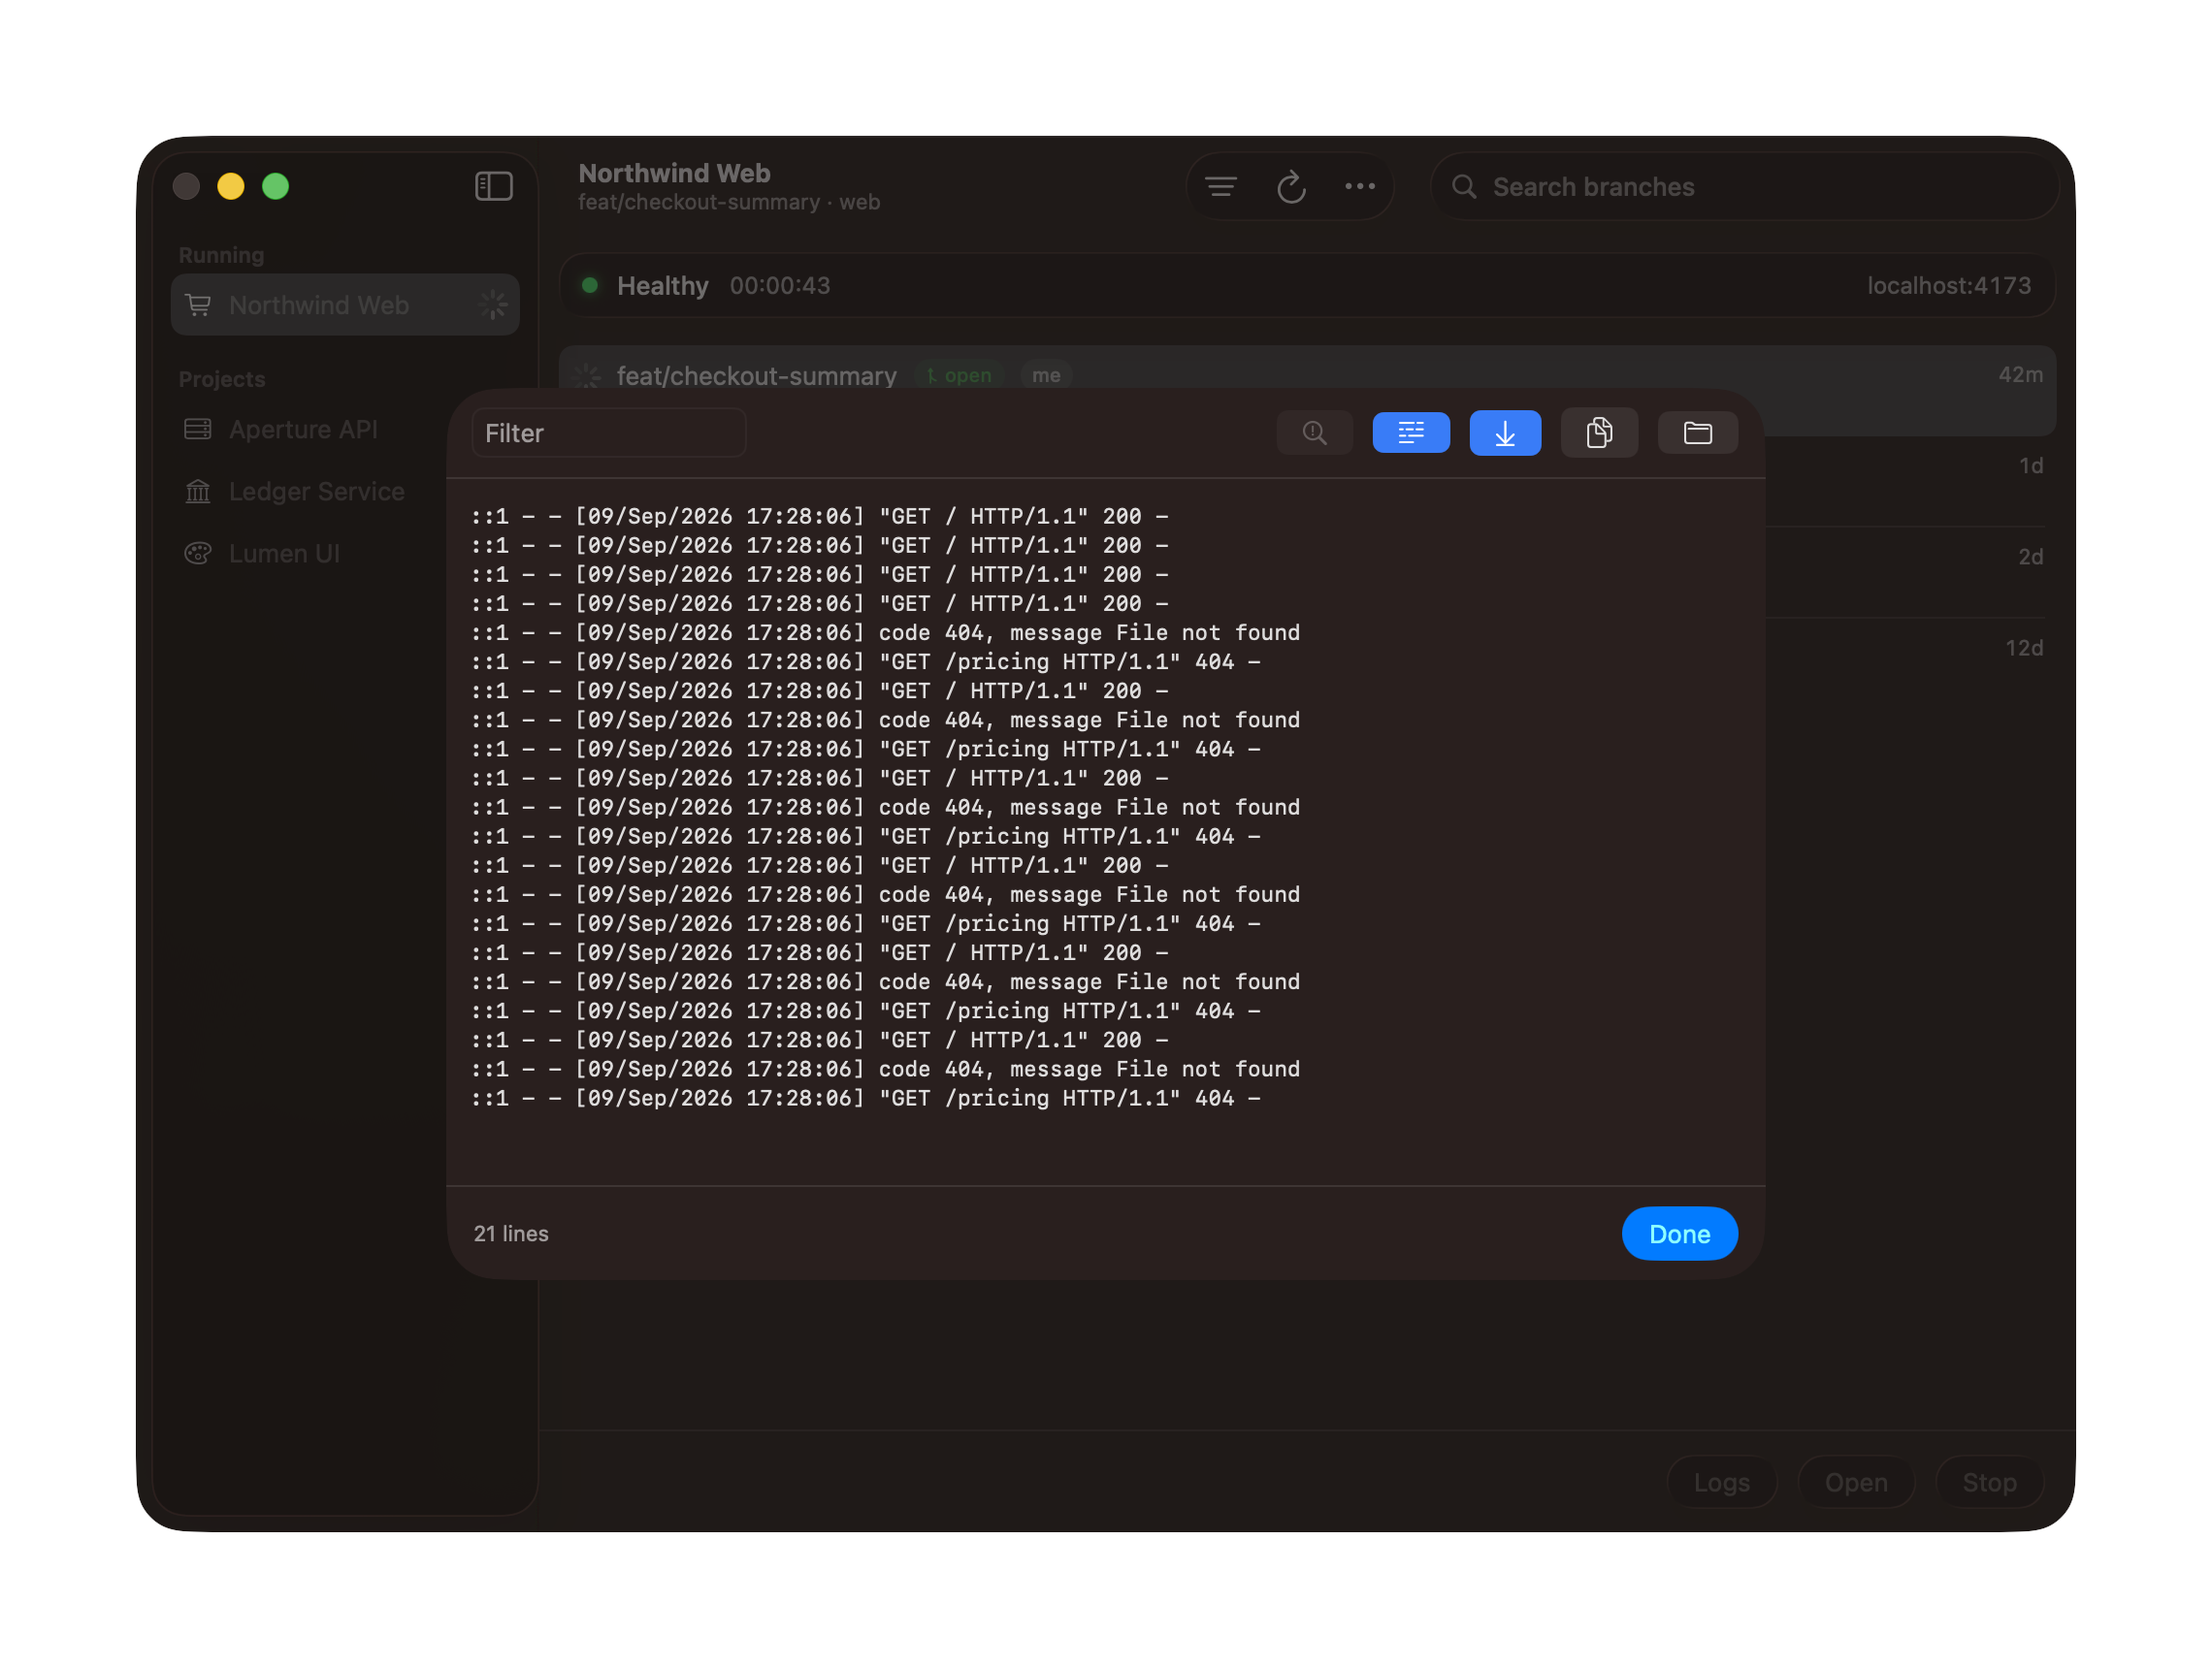
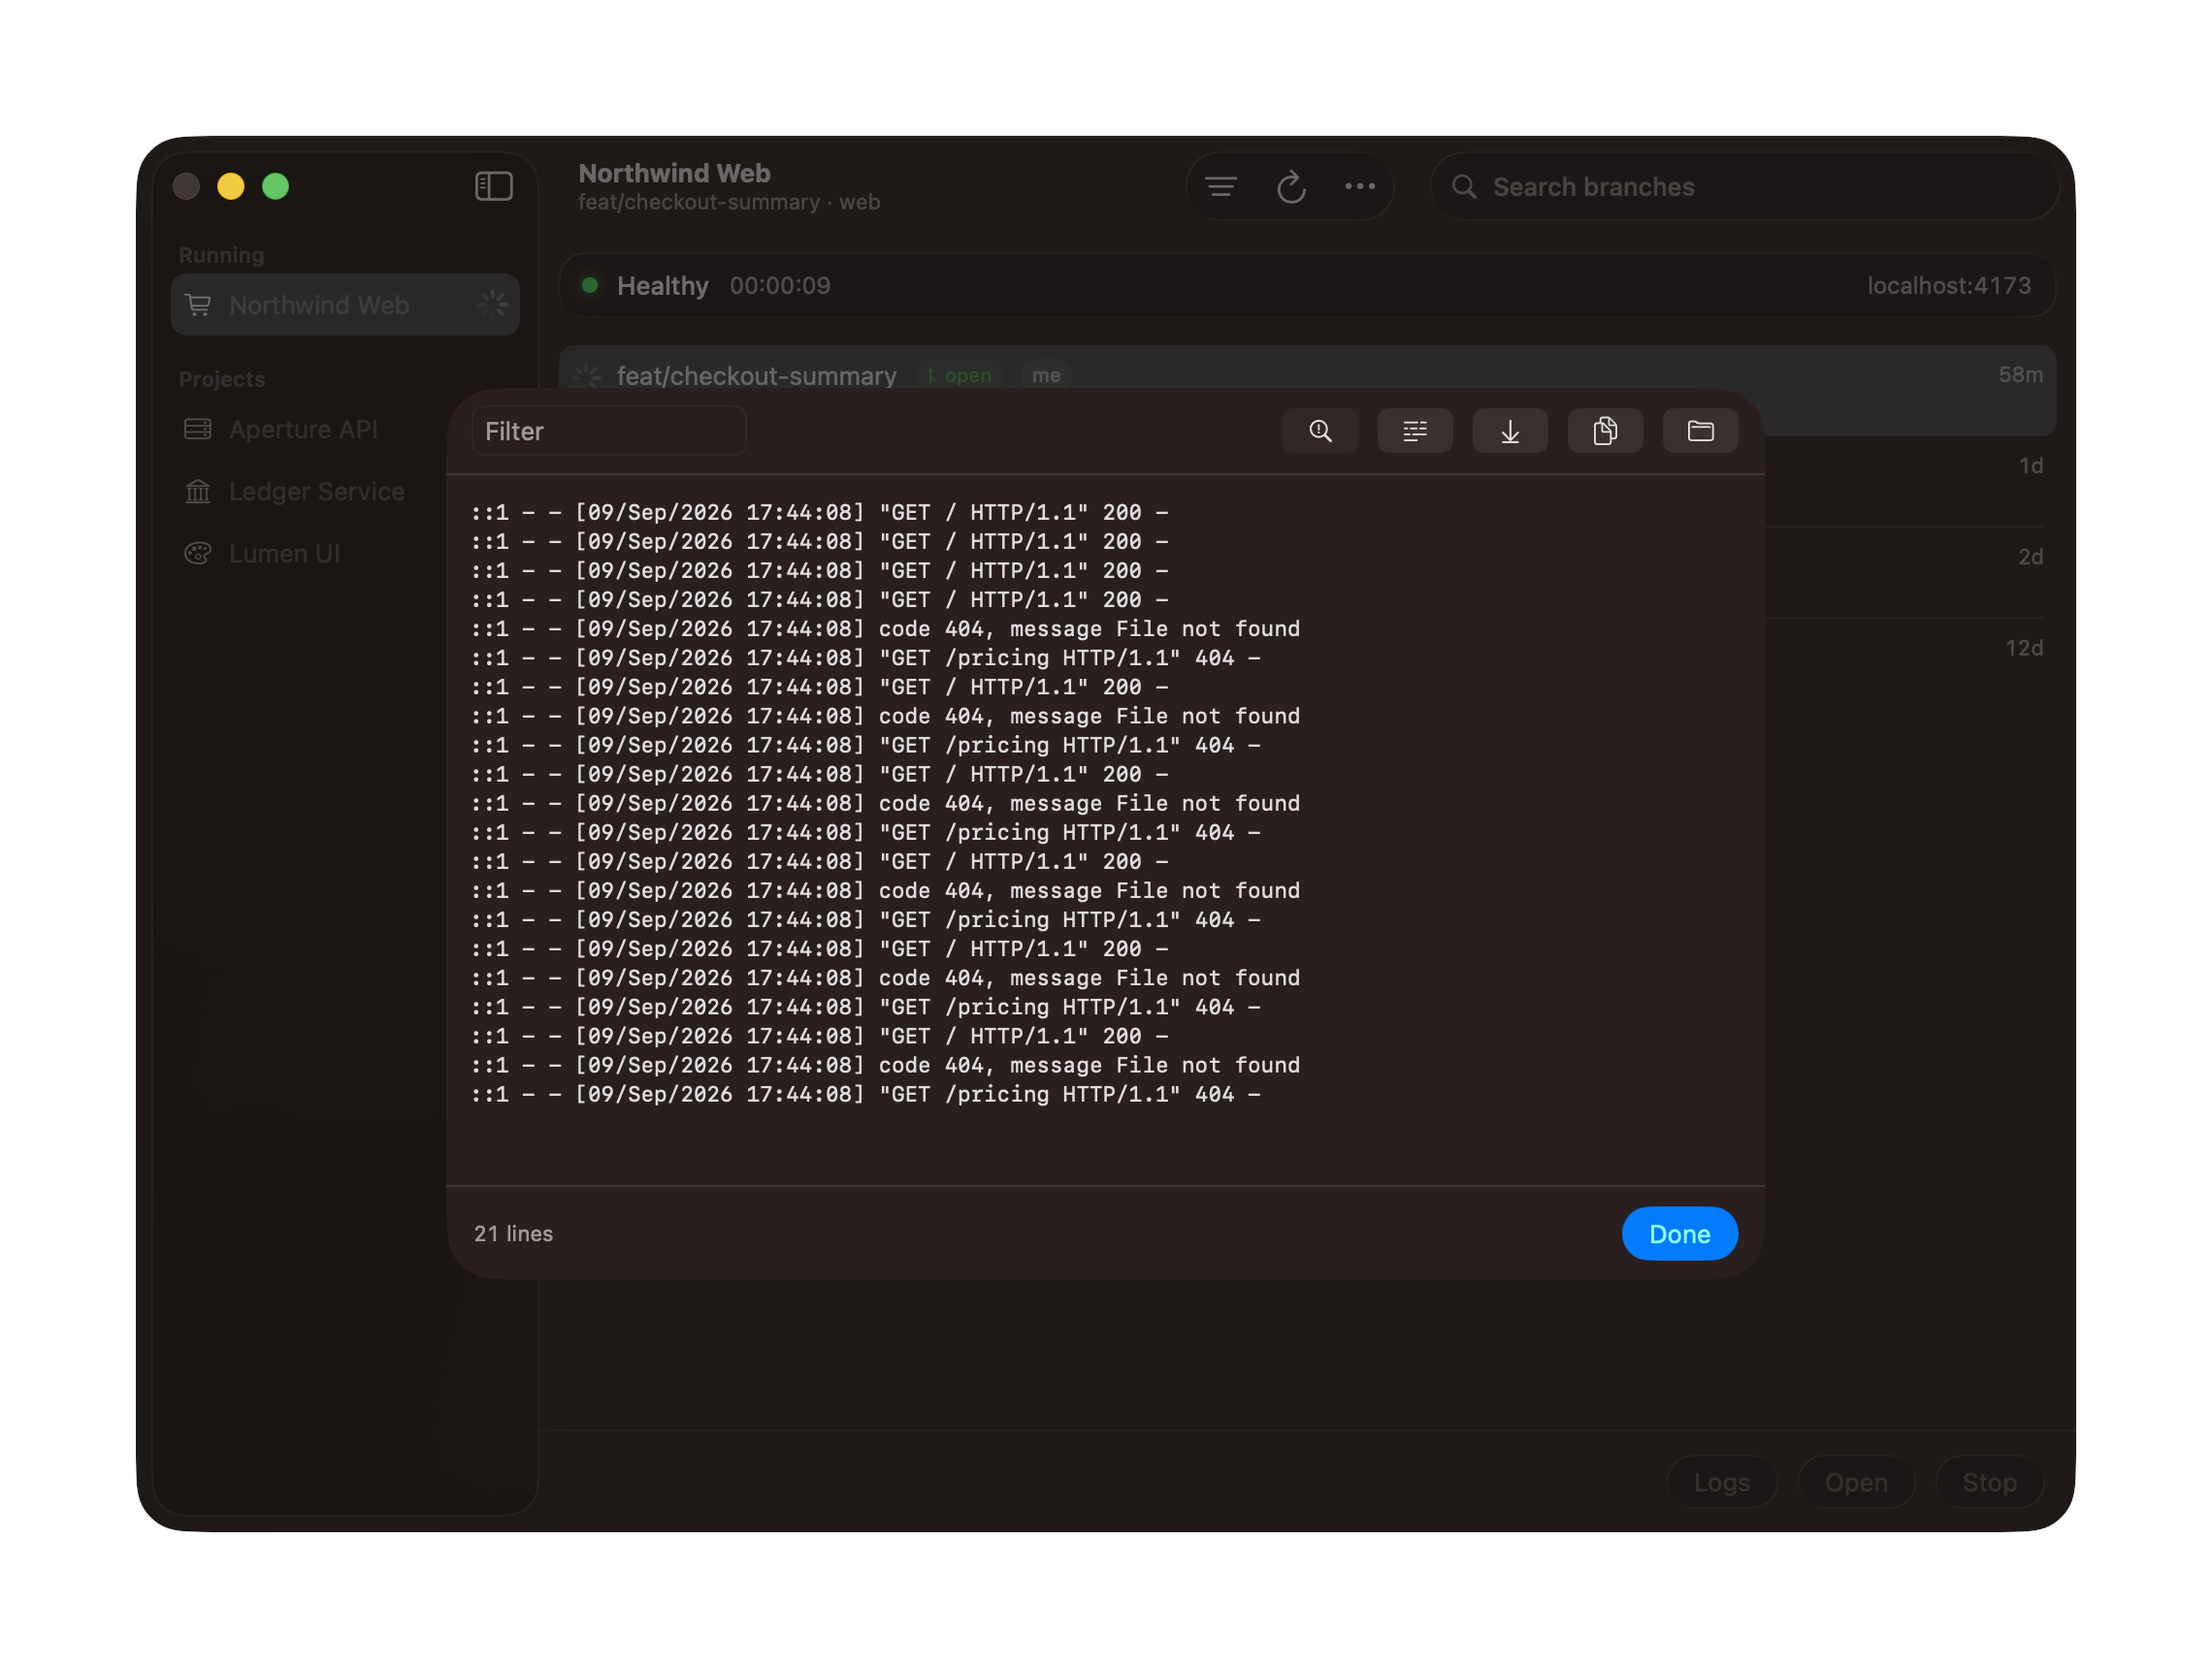
Make the log viewer's five controls look like five of the same thing
Two of them were Toggle(.button), which fills with the accent colour when on —
and wrap and follow both default to on, so the header opened with two buttons
lit up as though something wanted attention. The accent belongs to a state that
is not the default, which is how the filter glyph in the main toolbar uses it.
State is the glyph's prominence now: on is the ordinary colour, off is dimmed.

They were also three different sizes. Toggle(.button) pads differently from
Button, and SF Symbols have different intrinsic widths, so a row that should
have matched did not. All five go through one function with a fixed icon box.

Two things in passing. The footer's line count grew from "0 lines" and its error
tally appeared from nothing as the first read landed, both a beat after the
sheet opened; they are fixed-width and always present. And the scroll view is
flexible rather than ideal-driven, so the content's width cannot reach the frame
that sets the sheet's size.

On the reported stretch-and-slide as the sheet opens: I could not reproduce it.
Sampling the window every 100ms from the moment it is presented gives 680x460
at the first sample and every one after — with wrapping on and off, and with a
one-target project and a two-target one, since the second shows a segmented
picker in that header and the first does not. So the sheet is not resizing at
anything my sampling can see, and I have not claimed otherwise in the code.
[…]

diff --git a/app/RunSheet.swift b/app/RunSheet.swift
@@ -181,6 +181,14 @@ struct LogViewer: View {
             Divider()
 
             ScrollViewReader { proxy in
+                // The horizontal axis only when lines are not wrapping.
+                //
+                // Enabling it unconditionally seemed tidier — it keeps the
+                // view's identity stable across a wrap toggle — but a
+                // horizontal axis and children asking for maxWidth: .infinity
+                // are contradictory instructions. The lines wrapped at a width
+                // of SwiftUI's choosing, the content came out wider than the
+                // sheet, and every line sat indented halfway across it.
                 ScrollView(wrap ? .vertical : [.vertical, .horizontal]) {
                     LazyVStack(alignment: .leading, spacing: 1) {
                         ForEach(shown) { line in
@@ -201,9 +209,20 @@ struct LogViewer: View {
                     }
                     .padding(12)
                 }
+                // Flexible rather than ideal-driven, so the content's width
+                // can never reach the frame at the end of this view and the
+                // sheet's size is decided in one place. Belt and braces: the
+                // sheet was measured opening at 680x460 and staying there, so
+                // this is not fixing an observed resize.
+                .frame(maxWidth: .infinity, maxHeight: .infinity)
                 .onChange(of: lines.last?.id) { _, last in
                     guard follow, let last else { return }
-                    withAnimation { proxy.scrollTo(last, anchor: .bottom) }
+                    // Bottom LEFT, not `.bottom`. `.bottom` is (0.5, 1) and
+                    // the x half of it matters now that this scroll view has
+                    // a horizontal axis: following the tail scrolled the log
+                    // to horizontally centred, so every line sat indented
+                    // halfway across the sheet.
+                    withAnimation { proxy.scrollTo(last, anchor: .bottomLeading) }
                 }
                 // Jumping while pinned to the tail scrolls straight back, so
                 // unpin first. Following is what you want while waiting and
@@ -211,19 +230,27 @@ struct LogViewer: View {
                 .onChange(of: jumpTarget) { _, row in
                     guard let row else { return }
                     follow = false
-                    withAnimation { proxy.scrollTo(row, anchor: .center) }
+                    // Vertically centred, horizontally at the start, for the
+                    // same reason as above.
+                    withAnimation { proxy.scrollTo(row, anchor: UnitPoint(x: 0, y: 0.5)) }
                     jumpTarget = nil
                 }
             }
 
             Divider()
             HStack(spacing: 8) {
+                // Both fixed and always present. The count grew from "0 lines"
+                // as the first read landed and the error tally appeared from
+                // nothing, so the footer reflowed a beat after the sheet
+                // opened.
                 Text("\(shown.count) lines")
-                    .font(.system(size: 11)).foregroundStyle(.secondary)
-                if !errorLines.isEmpty {
-                    Text("· \(errorLines.count) matching error")
-                        .font(.system(size: 11)).foregroundStyle(.red)
-                }
+                    .font(.system(size: 11).monospacedDigit())
+                    .foregroundStyle(.secondary)
+                    .frame(width: 70, alignment: .leading)
+                Text(errorLines.isEmpty ? " "
+                     : "· \(errorLines.count) matching error")
+                    .font(.system(size: 11)).foregroundStyle(.red)
+                    .frame(width: 150, alignment: .leading)
                 Spacer()
                 Button("Done", action: onClose)
                     .buttonStyle(.glassProminent).controlSize(.large)
@@ -252,30 +279,57 @@ struct LogViewer: View {
         }
     }
 
+    /// One control, so five of them match.
+    ///
+    /// Two were `Toggle(.button)`, which fills with the accent colour when on.
+    /// Both default to on, so the row opened with two buttons lit up as though
+    /// something wanted attention — and the accent belongs to a state that is
+    /// NOT the default, which is how the filter glyph in the main toolbar uses
+    /// it. `Toggle(.button)` also pads differently from `Button`, and SF
+    /// Symbols have different intrinsic widths, so five controls that should
+    /// have matched were three sizes.
+    ///
+    /// State is the glyph's prominence now: on is the ordinary colour, off is
+    /// dimmed. The fixed box is what keeps a wide symbol and a narrow one the
+    /// same size.
+    private func iconButton(_ symbol: String, help: String,
+                            off: Bool = false, disabled: Bool = false,
+                            action: @escaping () -> Void) -> some View {
+        Button(action: action) {
+            Image(systemName: symbol)
+                .font(.system(size: 12))
+                .foregroundStyle(off ? AnyShapeStyle(.secondary) : AnyShapeStyle(.primary))
+                .frame(width: 15, height: 15)
+        }
+        .buttonStyle(.bordered)
+        .disabled(disabled)
+        .help(help)
+    }
+
     @ViewBuilder
     private var controls: some View {
-        Button {
+        iconButton("exclamationmark.magnifyingglass",
+                   help: errorLines.isEmpty ? "No errors in this log"
+                                            : "Jump to the first error",
+                   disabled: errorLines.isEmpty) {
             jumpTarget = errorLines.first?.id
-        } label: { Image(systemName: "exclamationmark.magnifyingglass") }
-            .disabled(errorLines.isEmpty)
-            .help(errorLines.isEmpty ? "No errors in this log" : "Jump to the first error")
-        Toggle(isOn: $wrap) { Image(systemName: "text.word.spacing") }
-            .toggleStyle(.button)
-            .help(wrap ? "Wrapping long lines" : "Long lines scroll sideways")
-        Toggle(isOn: $follow) { Image(systemName: "arrow.down.to.line") }
-            .toggleStyle(.button)
-            .help(follow ? "Following new output" : "Not following — new output does not scroll")
-        Button {
+        }
+        iconButton("text.word.spacing",
+                   help: wrap ? "Wrapping long lines" : "Long lines scroll sideways",
+                   off: !wrap) { wrap.toggle() }
+        iconButton("arrow.down.to.line",
+                   help: follow ? "Following new output"
+                                : "Not following — new output does not scroll",
+                   off: !follow) { follow.toggle() }
+        iconButton("doc.on.doc", help: "Copy what is on screen") {
             NSPasteboard.general.clearContents()
             NSPasteboard.general.setString(lines.map(\.text).joined(separator: "\n"),
                                            forType: .string)
-        } label: { Image(systemName: "doc.on.doc") }
-            .help("Copy what is on screen")
-        Button {
+        }
+        iconButton("folder", help: "Reveal in Finder") {
             NSWorkspace.shared.selectFile("\(logDir)/\(selected).log",
                                           inFileViewerRootedAtPath: logDir)
-        } label: { Image(systemName: "folder") }
-            .help("Reveal in Finder")
+        }
     }
 
     private func reset() {
